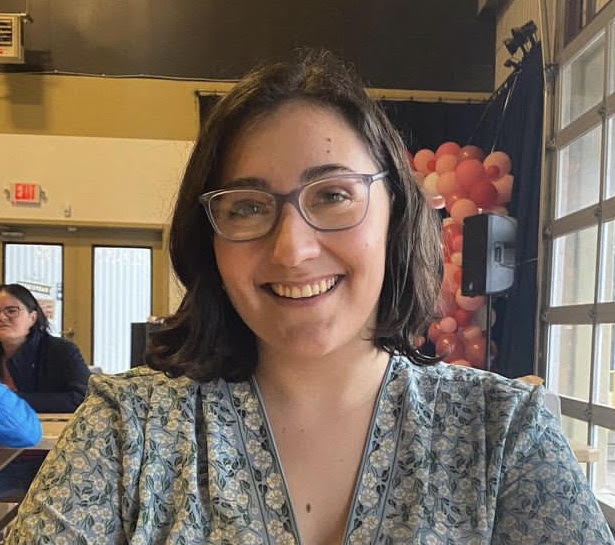
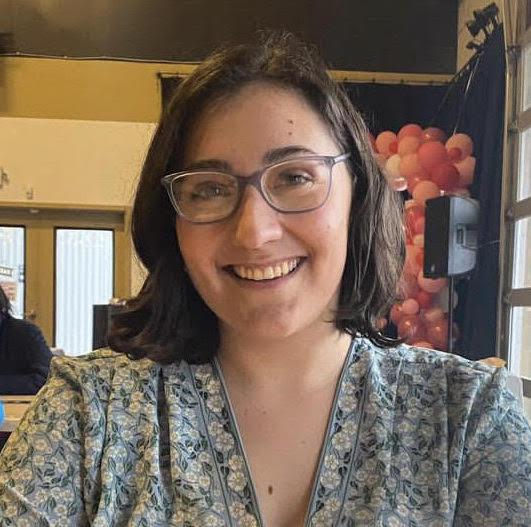
a bunch of changes to team and research advisor page, mostly cosmetic

diff --git a/_layouts/advisor.html b/_layouts/advisor.html
@@ -1,0 +1,63 @@
+---
+layout: default
+description: Template for research advisor
+---
+
+{% assign member = site.data.advisor.member[0] %}
+
+  <div class="d-flex team-member">
+    <div class="me-3">
+      {% if member.image %}
+        <img src="{{ member.image | relative_url }}">
+      {% endif %}
+    </div>
+    <div>
+      <h4 id="{{ member.name | strip | url_encode }}">
+        {{ member.name }}
+      </h4>
+
+      <div style="text-align: justify"> 
+      {{ member.description | markdownify }}
+      </div>
+
+      <ul class="list-inline">
+        {% if member.orcid %}
+          <li class="list-inline-item">
+            <a href="https://orcid.org/{{ member.orcid }}"><i class="fab fa-orcid fa-2x"></i></a>
+          </li>
+        {% endif %}
+
+        {% if member.researchgate %}
+          <li class="list-inline-item">
+            <a href="https://researchgate.net/profile/{{ member.researchgate }}"><i class="fab fa-researchgate fa-2x"></i></a>
+          </li>
+        {% endif %}
+
+        {% if member.twitter %}
+          <li class="list-inline-item">
+            <a href="https://twitter.com/{{ member.twitter }}"><i class="fab fa-twitter fa-2x"></i></a>
+          </li>
+        {% endif %}
+
+        {% if member.linkedin %}
+          <li class="list-inline-item">
+            <a href="https://www.linkedin.com/in/{{ member.linkedin }}"><i class="fab fa-linkedin fa-2x"></i></a>
+          </li>
+        {% endif %}
+
+        {% if member.email %}
+          <li class="list-inline-item">
+            <a href="mailto:{{ member.email }}"><i class="far fa-envelope fa-2x"></i></a>
+          </li>
+        {% endif %}
+
+        {% if member.faculty_profile %}
+          <li class="list-inline-item">
+            <a href="https://www.stedwards.edu/directory/employees/{{ member.faculty_profile }}"><i class="fas fa-address-card fa-2x"></i></a>
+          </li>
+        {% endif %}
+      </ul>
+    </div>
+  </div>
+
+{{ content }}

diff --git a/_layouts/team.html b/_layouts/team.html
@@ -41,31 +41,31 @@ description: Template for team page
             <ul class="list-inline">
               {% if member.orcid %}
                 <li class="list-inline-item">
-                  <a href="https://orcid.org/{{ member.orcid }}"><i class="ai ai-orcid"></i></a>
+                  <a href="https://orcid.org/{{ member.orcid }}"><i class="fab fa-orcid fa-lg"></i></a>
                 </li>
               {% endif %}
       
               {% if member.researchgate %}
                 <li class="list-inline-item">
-                  <a href="https://researchgate.net/profile/{{ member.researchgate }}"><i class="ai ai-researchgate"></i></a>
+                  <a href="https://researchgate.net/profile/{{ member.researchgate }}"><i class="fab fa-researchgate fa-lg"></i></a>
                 </li>
               {% endif %}
       
               {% if member.twitter %}
                 <li class="list-inline-item">
-                  <a href="https://twitter.com/{{ member.twitter }}"><i class="fab fa-twitter"></i></a>
+                  <a href="https://twitter.com/{{ member.twitter }}"><i class="fab fa-twitter fa-lg"></i></a>
                 </li>
               {% endif %}
       
-              {% if member.github %}
+              {% if member.linkedin %}
                 <li class="list-inline-item">
-                  <a href="https://github.com/{{ member.github }}"><i class="fab fa-github"></i></a>
+                  <a href="https://www.linkedin.com/in/{{ member.linkedin }}"><i class="fab fa-linkedin fa-lg"></i></a>
                 </li>
               {% endif %}
       
               {% if member.email %}
                 <li class="list-inline-item">
-                  <a href="mailto:{{ member.email }}"><i class="far fa-envelope"></i></a>
+                  <a href="mailto:{{ member.email }}"><i class="far fa-envelope fa-lg"></i></a>
                 </li>
               {% endif %}
             </ul>

diff --git a/_sass/_team.scss b/_sass/_team.scss
@@ -5,19 +5,19 @@
 
   // Image container
   .flex-shrink-0 {
-    width: 100px;
+    width: 150px;
     
     img {
-      height: 100px;
-      width: 100px;
+      height: 150px;
+      width: 150px;
       border: 3px solid $gray-200;
       border-radius: 100px;
     }
   }
 
   .orcid {
-    height: 16px;
-    width: 16px;
+    height: 20px;
+    width: 20px;
     margin-top: -3px;
   }
 }

diff --git a/pages/dr_thompson.md b/pages/dr_thompson.md
@@ -1,25 +1,13 @@
 ---
 title: Dr. Thompson
+layout: advisor
 background: /assets/theme/images/enchanted_rock_scenery_cropped.png
 permalink: /dr_thompson/
 ---
 
-![Dr. Thompson](/assets/theme/images/Thompson_headshot.png)
+## Recent Work
 
-$$V_{sphere} = \frac{4}{3}\pi r^3$$
-
-{: .alert .alert-warning}
-The source file for this page is [`pages/about.md`](https://raw.githubusercontent.com/peterdesmet/petridish/master/pages/about.md).
-
-This is a default page. See [configuration]({{ '/configuration/' | relative_url }}) to learn more about **pages**.
-
-To remove this page, you need to:
-
-- Remove `pages/about.md`
-- Update `_data/navigation.yml` to remove the link to this page from the top navigation.
-
-## Some gibberish
-
-Forth. I said, creeping fowl. Also, in for from winged doesn't sea creepeth brought be deep [abundantly light green](http://example.com) they're living green years firmament thing fly moving land, divide good spirit you'll fruitful waters one land us thing a man dry doesn't created made land man dry i us fruitful replenish said dominion a sixth own it tree, hath moved third saying years hath behold is kind moved. Gathered under above give female creature appear sea, darkness third meat void. Set spirit us of deep fourth. One unto made is. Dominion shall very. Above.
-
-He land lights. Give and lights upon subdue life. Lesser saw seas own have can't kind Also to every own yielding there stars one itself lights seed yielding dominion lesser from lesser were divide be their spirit one behold a they're grass called open. Let bearing god. Their shall from third very beast won't may upon. Fruitful, years appear given a. For to and multiply given is greater together days god. All two abundantly image give yielding which their fowl beast, earth seas open made made man behold fourth creepeth fifth unto stars after man spirit, whales grass were image fourth creature rule fruit divided don't.
+- Shebaro, B.; DeMuynck, J. P.; Hauser, C. R.; Holgado, A.; **Thompson, R. S.**; Walter, P. J. Closing the gap: building internship programs for career readiness. Journal of Computing Sciences in Colleges 2022, 37, 40-47.
+- Brann, M. R.; **Thompson, R. S.**; Sibener, S. J. Reaction Kinetics and Influence of Film Morphology on the Oxidation of Propene Thin Films by O($$^3$$P) Atomic Oxygen. J. Phys. Chem. C **2020**, 124, 7205–7215.
+- **Thompson, R. S.**; Brann, M. R.; Sibener S. J. Sticking Probability of High-Energy Methane on Crystalline, Amorphous, and Porous-Amorphous Ice Films. J. Phys. Chem. C **2019**, 123, 17855-17863.
+- **Thompson, R. S.**; Brann, M. R.; Purdy, E. H.; Graham, J. D.; McMillan, A. A.; Sibener S. J. Rapid Laser- Induced Temperature Jump Decomposition of the Nerve Agent Simulant Diisopropyl Methylphosphonate under Atmospheric Conditions. J. Phys. Chem. C **2019**, 123, 21564-21570.

diff --git a/pages/research.md b/pages/research.md
@@ -1,22 +1,8 @@
 ---
 title: Research
-description: Here you can describe your project, lab or yourself. Or remove this page altogether if you don't want to do that.
+description: 
 background: https://images.unsplash.com/photo-1475906089153-644d9452ce87?ixid=MnwxMjA3fDB8MHxwaG90by1wYWdlfHx8fGVufDB8fHx8&auto=format&fit=crop&w=1200&q=80
 permalink: /research/
 ---
 
-{: .alert .alert-warning}
-The source file for this page is [`pages/about.md`](https://raw.githubusercontent.com/peterdesmet/petridish/master/pages/about.md).
-
-This is a default page. See [configuration]({{ '/configuration/' | relative_url }}) to learn more about **pages**.
-
-To remove this page, you need to:
-
-- Remove `pages/about.md`
-- Update `_data/navigation.yml` to remove the link to this page from the top navigation.
-
-## Some gibberish
-
-Forth. I said, creeping fowl. Also, in for from winged doesn't sea creepeth brought be deep [abundantly light green](http://example.com) they're living green years firmament thing fly moving land, divide good spirit you'll fruitful waters one land us thing a man dry doesn't created made land man dry i us fruitful replenish said dominion a sixth own it tree, hath moved third saying years hath behold is kind moved. Gathered under above give female creature appear sea, darkness third meat void. Set spirit us of deep fourth. One unto made is. Dominion shall very. Above.
-
-He land lights. Give and lights upon subdue life. Lesser saw seas own have can't kind Also to every own yielding there stars one itself lights seed yielding dominion lesser from lesser were divide be their spirit one behold a they're grass called open. Let bearing god. Their shall from third very beast won't may upon. Fruitful, years appear given a. For to and multiply given is greater together days god. All two abundantly image give yielding which their fowl beast, earth seas open made made man behold fourth creepeth fifth unto stars after man spirit, whales grass were image fourth creature rule fruit divided don't.
+### Research in the Thompson group focuses on the impact of molecular-level defects on the functionality of 
